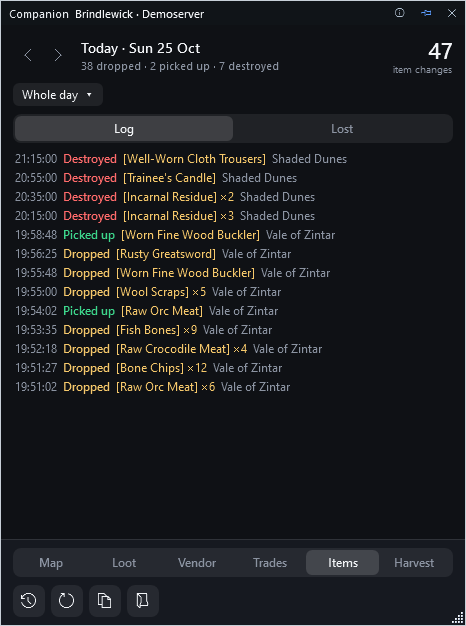
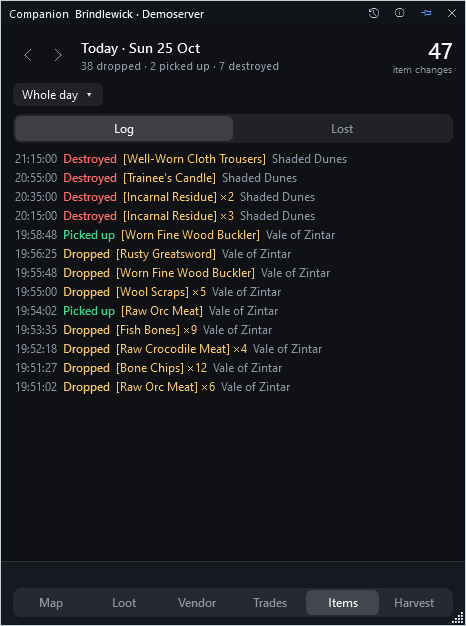
History is a title-bar button; the bottom bar is just the pages
The History button moves to the title bar, beside the info button and the pin: it opens a
separate window, which is what the title bar's buttons do. The other three bottom buttons
go: New session is in the session menu, the Copy buttons are on the Loot page's tabs (the
new pages only copied a one-line stub), and "Open the ledger folder" is now in the info menu.
The bottom bar is the six page buttons with the status line above them, which gives the
page back about 40 px.

diff --git a/src/MnMCompanion/PanelWindow.cs b/src/MnMCompanion/PanelWindow.cs
@@ -82,15 +82,18 @@ internal sealed class PanelWindow : Window
         _pin = TitleButton("", "Keep on top of other windows", () => SetOnTop(!Topmost));
         var close = TitleButton("", "Close", Close);
         _about = TitleButton("", "About Companion, and updates", OpenAboutMenu);
+        var historyButton = TitleButton("\uE81C", "History: every day and every page, for this character or for everyone", OpenHistory);
         var title = new DockPanel { Background = new SolidColorBrush(Color.FromRgb(0x10, 0x14, 0x18)), Height = 24, Cursor = Cursors.SizeAll, LastChildFill = false };
         DockPanel.SetDock(close, Dock.Right);
         DockPanel.SetDock(_pin, Dock.Right);
         DockPanel.SetDock(_about, Dock.Right);
+        DockPanel.SetDock(historyButton, Dock.Right);
         DockPanel.SetDock(caption, Dock.Left);
         DockPanel.SetDock(_who, Dock.Left);
         title.Children.Add(close);
         title.Children.Add(_pin);
         if (updates is not null) title.Children.Add(_about);
+        title.Children.Add(historyButton);
         title.Children.Add(caption);
         title.Children.Add(_who);
         title.MouseLeftButtonDown += (_, e) => { if (e.ButtonState == MouseButtonState.Pressed && e.OriginalSource is not Button) DragMove(); };
@@ -155,6 +158,9 @@ internal sealed class PanelWindow : Window
 
     private IMiniPage Active => _pages[_page];
 
+    /// <summary>Opens the History window on the day and session on show.</summary>
+    private void OpenHistory() => BreakdownRequested?.Invoke(_session.Day, null, _session.ActiveSession());
+
     /// <summary>Draws the page on show now, on this thread (for a picture).</summary>
     public void DrawPageNow() => Active.RefreshNow();
 
@@ -171,8 +177,8 @@ internal sealed class PanelWindow : Window
     }
 
     /// <summary>
-    /// The bottom of the window: a button for each page (Map, Loot, Vendor, Trades, Items, Harvest), and under them the actions (History, New
-    /// session, Copy, the ledger folder) with the status line beside them. Every page shows the same day and session.
+    /// The bottom of the window: a button for each page (Map, Loot, Vendor, Trades, Items, Harvest) with the status line above them. Every page shows
+    /// the same day and session; History is a button in the title bar, New session is in the session menu and the ledger folder in the ⓘ menu.
     /// </summary>
     private FrameworkElement BuildBottomBar()
     {
@@ -187,35 +193,11 @@ internal sealed class PanelWindow : Window
         }
         var pages = new Border { CornerRadius = new CornerRadius(8), Background = (Brush)Ui.Theme["Subtle"], Padding = new Thickness(2), Child = grid };
 
-        var tools = new StackPanel { Orientation = Orientation.Horizontal, VerticalAlignment = VerticalAlignment.Center };
-        tools.Children.Add(LootPanel.Tool("\uE81C", "History", "Open the full History window: every day, every page, for this character or for everyone.",
-            () => BreakdownRequested?.Invoke(_session.Day, null, _session.ActiveSession())));
-        tools.Children.Add(LootPanel.Tool("\uE72C", "New session", "Archive what has happened so far (its loot breakdown is saved as a text file) and start every page again from nothing. Nothing is deleted, and it can be undone.", NewSession));
-        tools.Children.Add(LootPanel.Tool("\uE8C8", "Copy summary", "Copy the page on show to the clipboard as text.", () =>
-        {
-            LootPanel.Copy(Active.SummaryText());
-            Active.Say("Copied to the clipboard.");
-        }));
-        tools.Children.Add(LootPanel.Tool("\uE838", "Open ledger folder", "Open the folder where the game keeps this character's ledger files (one a day for the character, one for the party).", _panel.OpenFolder));
-        ((FrameworkElement)tools.Children[0]).Margin = new Thickness(0);
-
-        _status.Margin = new Thickness(10, 0, 0, 0);
-        var row = new DockPanel { Margin = new Thickness(0, 8, 0, 0) };
-        DockPanel.SetDock(tools, Dock.Left);
-        row.Children.Add(tools);
-        row.Children.Add(_status);
-
+        _status.Margin = new Thickness(2, 0, 2, 6);
         var stack = new StackPanel();
+        stack.Children.Add(_status);
         stack.Children.Add(pages);
-        stack.Children.Add(row);
         return new Border { Background = (Brush)Ui.Theme["Panel"], BorderBrush = (Brush)Ui.Theme["Stroke"], BorderThickness = new Thickness(0, 1, 0, 0), Padding = new Thickness(12, 8, 12, 8), Child = stack };
-    }
-
-    private void NewSession()
-    {
-        var ask = MessageBox.Show(this, "Start a new session?\n\nWhat has happened so far is archived and every page starts again from nothing. Nothing is deleted, and \"Undo the last new session\" in the session menu takes it back.",
-            "New session", MessageBoxButton.YesNo, MessageBoxImage.Question, MessageBoxResult.No);
-        if (ask == MessageBoxResult.Yes) _session.StartSession();
     }
 
     private static Button TitleButton(string glyph, string tip, Action click)
@@ -293,6 +275,9 @@ internal sealed class PanelWindow : Window
         };
         maps.Click += (_, _) => { _settings.MapsOnline = maps.IsChecked; _settings.Save(); _map.Refresh(); };
         menu.Items.Add(maps);
+        var ledgerFolder = new MenuItem { Header = "Open the ledger folder", ToolTip = "Opens the folder where the game keeps this character's ledger files (one a day for the character, one for the party)." };
+        ledgerFolder.Click += (_, _) => _panel.OpenFolder();
+        menu.Items.Add(ledgerFolder);
         var folder = new MenuItem { Header = "Choose the game's data folder…", ToolTip = $"Where the game keeps its data. Now: {_store.LedgerRoot}" };
         folder.Click += async (_, _) => await ChooseRoot();
         menu.Items.Add(folder);

diff --git a/src/MnMCompanion/MiniPages.cs b/src/MnMCompanion/MiniPages.cs
@@ -27,9 +27,6 @@ internal interface IMiniPage
     void Tick();
 
     void Say(string text);
-
-    /// <summary>What the Copy button puts on the clipboard.</summary>
-    string SummaryText();
 }
 
 /// <summary>
@@ -105,8 +102,6 @@ internal abstract class StatsPanel<T> : Border, IMiniPage where T : class
     protected abstract T Query(HistoryStore store, string server, string character, Period period);
 
     protected abstract void Render(T data, string tab);
-
-    public abstract string SummaryText();
 
     // ------------------------------------------------------------------ reading
 
@@ -252,8 +247,6 @@ internal sealed class VendorMini(LootStore store, HistoryData? data, SessionScop
                 (r.Direction == VendorDirection.Sold ? "Sold  " : "Bought  ", r.Direction == VendorDirection.Sold ? Palette.Heal : Palette.Taken, true),
                 ($"[{r.Item}]" + (r.Qty > 1 ? $" ×{r.Qty}" : ""), Palette.Gold, false), (r.TotalCopper > 0 ? "  " + Coin(r.TotalCopper) : "", Palette.Text, false)));
     }
-
-    public override string SummaryText() => "Vendors: open the Vendor page for the figures.";
 }
 
 // ======================================================================================================================== Trades
@@ -278,8 +271,6 @@ internal sealed class TradesMini(LootStore store, HistoryData? data, SessionScop
                 ("  gave ", Palette.Muted, false), (TradeSummary.Describe(t.GaveCoin, t.GaveItems), Palette.Taken, false),
                 ("  got ", Palette.Muted, false), (TradeSummary.Describe(t.ReceivedCoin, t.ReceivedItems), Palette.Heal, false)));
     }
-
-    public override string SummaryText() => "Trades: open the Trades page for the figures.";
 }
 
 // ======================================================================================================================== Items (dropped, picked up, destroyed)
@@ -321,8 +312,6 @@ internal sealed class ItemsMini(LootStore store, HistoryData? data, SessionScope
             Body.Children.Add(RankRow(++rank, i.Item, $"{i.Dropped:N0} dropped · {i.Destroyed:N0} destroyed", "−" + i.Lost.ToString("N0"), Palette.Taken, i.Lost / top,
                 $"{i.PickedUp:N0} picked up again"));
     }
-
-    public override string SummaryText() => "Items: open the Drops / Pickups / Destroys page for the figures.";
 }
 
 // ======================================================================================================================== Harvest
@@ -364,6 +353,4 @@ internal sealed class HarvestMini(LootStore store, HistoryData? data, SessionSco
             Body.Children.Add(LogLine((Time(r.Time), Palette.Muted, false), ($"[{r.Item}]" + (r.Qty > 1 ? $" ×{r.Qty}" : ""), Palette.Gold, false),
                 (r.Zone.Length > 0 ? "  " + ZoneMaps.DisplayName(r.Zone) : "", Palette.Muted, false)));
     }
-
-    public override string SummaryText() => "Harvest: open the Harvest page for the figures.";
 }

diff --git a/src/MnMCompanion/LootPanel.cs b/src/MnMCompanion/LootPanel.cs
@@ -92,14 +92,6 @@ internal sealed class LootPanel : Border, IMiniPage
         return b;
     }
 
-    /// <summary>A toolbar button: a larger <see cref="Icon"/> in a lighter pill, so it reads as a button.</summary>
-    internal static FrameworkElement Tool(string glyph, string title, string tip, Action click)
-    {
-        var b = Icon(glyph, title, tip, click, size: 32, fontSize: 15);
-        b.Foreground = Palette.Text;
-        return new Border { CornerRadius = new CornerRadius(8), Background = (Brush)Ui.Theme["Subtle"], Margin = new Thickness(6, 0, 0, 0), Child = b };
-    }
-
     public FrameworkElement Element => this;
 
     public bool NeedsHistory => false;
@@ -110,9 +102,6 @@ internal sealed class LootPanel : Border, IMiniPage
 
     /// <summary>The status line (what was copied, what's unpriced). The window puts it in its bottom bar.</summary>
     public TextBlock StatusLine => _status;
-
-    /// <summary>The breakdown of what is shown, as text, for the Copy button.</summary>
-    public string SummaryText() => LootSummary.Breakdown(Day, Events(), values: _store.Values);
 
     private static DateOnly Today => SessionScope.Today;
     private DateOnly Day => _session.Day;

diff --git a/tests/MnMCompanion.Tests/ScopeTests.cs b/tests/MnMCompanion.Tests/ScopeTests.cs
@@ -146,7 +146,7 @@ public class ScopeTests
         Assert.Equal(2, store.Harvests("alpha", "Aldric").Count);
         Assert.Equal(3, store.Harvests("alpha", null).Count);                       // everyone on one server
         Assert.Equal(4, store.Harvests(null, null).Count);                         // everyone on the PC
-        Assert.Equal(1, store.Harvests("beta", "Aldric").Count);               // the same name on another server is another character
+        Assert.Single(store.Harvests("beta", "Aldric"));                       // the same name on another server is another character
         Assert.Equal(["Aldric", "Aldric", "Wendell"], store.Harvests("alpha", null).Select(h => h.Character));
         Assert.Equal(3, store.Counts("alpha", null).Harvest);
         Assert.Equal(4, store.Counts(null, null).Harvest);

diff --git a/src/MnMCompanion/MapPanel.cs b/src/MnMCompanion/MapPanel.cs
@@ -85,8 +85,6 @@ internal sealed class MapPanel : Border, IMiniPage, IDisposable
 
     public void Say(string text) => _status.Text = text;
 
-    public string SummaryText() => _store.CurrentZone is { } z ? ZoneMaps.DisplayName(z.Zone) + (Atlas.UrlFor(z.Zone) is { } url ? " " + url : "") : "";
-
     private string Signature() => $"{_store.CurrentZone?.Zone}|{_store.SelectionKey}|{_session.Key}|{_store.Version}|{_settings.MapsOnline}";
 
     public void Tick()

diff --git a/README.md b/README.md
@@ -93,8 +93,8 @@ If the window says it can't find any ledger, see [Something looks wrong](#someth
 
 <img src="docs/images/window-update.png" alt="The window with an update banner under the title bar" width="300" align="right">
 
-From left to right: the **name** of the program, the **character and server** it is showing, then on the right an **ⓘ** button
-(about, updates, and where the game keeps its data), a **pin** (keep the window on top of the game, or let other windows cover it) and **close**.
+From left to right: the **name** of the program, the **character and server** it is showing, then on the right a **History** button (a clock), an **ⓘ** button
+(about, updates, the ledger folder, and where the game keeps its data), a **pin** (keep the window on top of the game, or let other windows cover it) and **close**.
 
 There is nothing to pick: this window **follows the character you're playing**. The game rewrites the ledger of whoever is logged in, so when it
 starts writing a different character's ledger the window switches to them (and says so in the status line), and when it starts it opens on
@@ -112,7 +112,7 @@ of everything looted, and a smaller line breaking it into **coin** and **items**
 
 ### The bottom bar: six pages
 
-The bottom of the window has a button for each **page**, and under them four action buttons.
+The bottom of the window has a button for each **page**.
 
 <p align="center">
   <img src="docs/images/window-vendor.png" alt="The Vendor page" width="200">
@@ -133,17 +133,10 @@ The bottom of the window has a button for each **page**, and under them four act
 follow, so "what did this one run give me?" is the same question on every page. A click on a row of Vendor, Trades, Items or Harvest opens that
 page of the History window for the same character.
 
-The four buttons under the pages are:
-
-| Button | What it does |
-|---|---|
-| **History** (clock) | Opens the big window with every day, every player, every item. |
-| **New session** (circle arrow) | Saves what's happened so far and starts every page again from nothing. It asks first, and it can be undone. |
-| **Copy summary** (pages) | Copies the page you're looking at to the clipboard as plain text, ready to paste. |
-| **Open ledger folder** (folder) | Opens the folder where the game keeps your ledger files. |
-
-Hover over any button and a tooltip tells you what it does. The line beside them says what just happened (what was copied, how many items are
-unpriced).
+The **History** button (a clock) is in the title bar, next to ⓘ and the pin: it opens the big window with every day, every page, for this
+character or for everyone. **New session** is in the session menu (the *Whole day / This session* chip under the day) and starts every page again
+from nothing; the *Copy* buttons are on the Loot page's tabs; **Open the ledger folder** is in the ⓘ menu. The line above the page buttons says what
+just happened (a session archived, how many items are unpriced).
 
 ### The Loot page's four tabs
 
